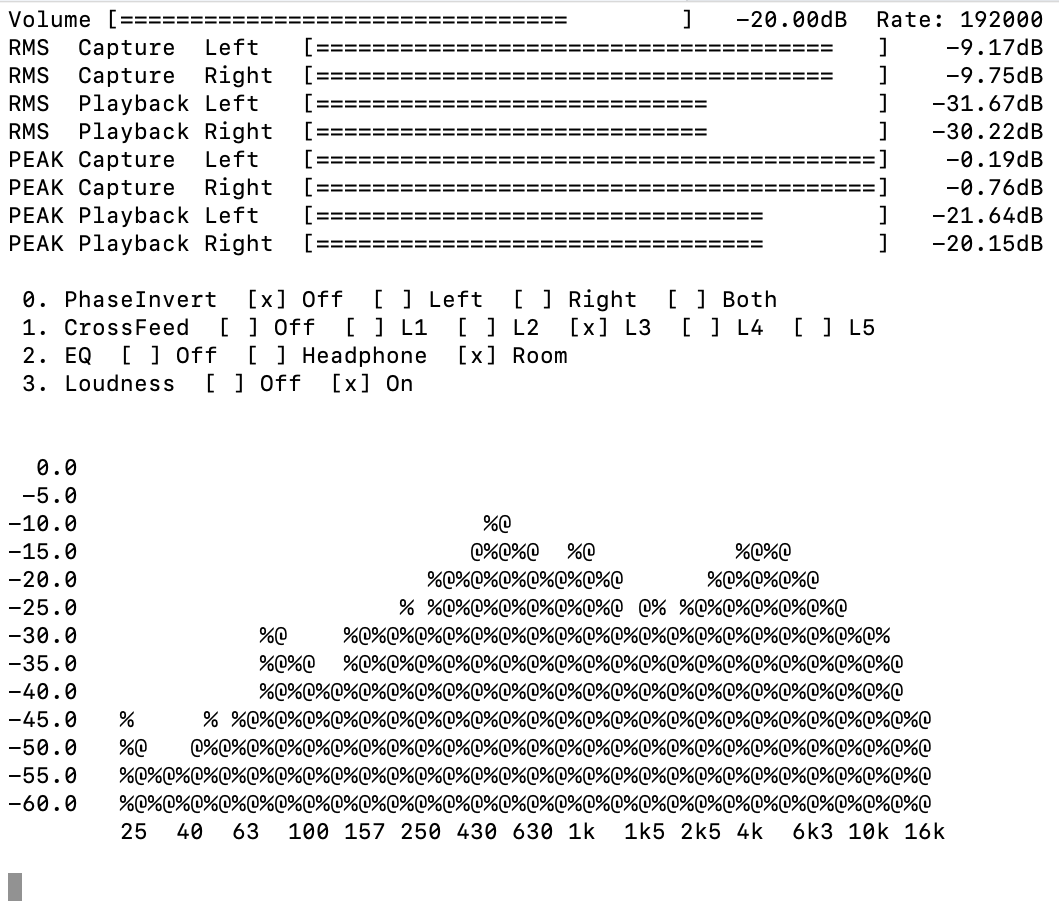
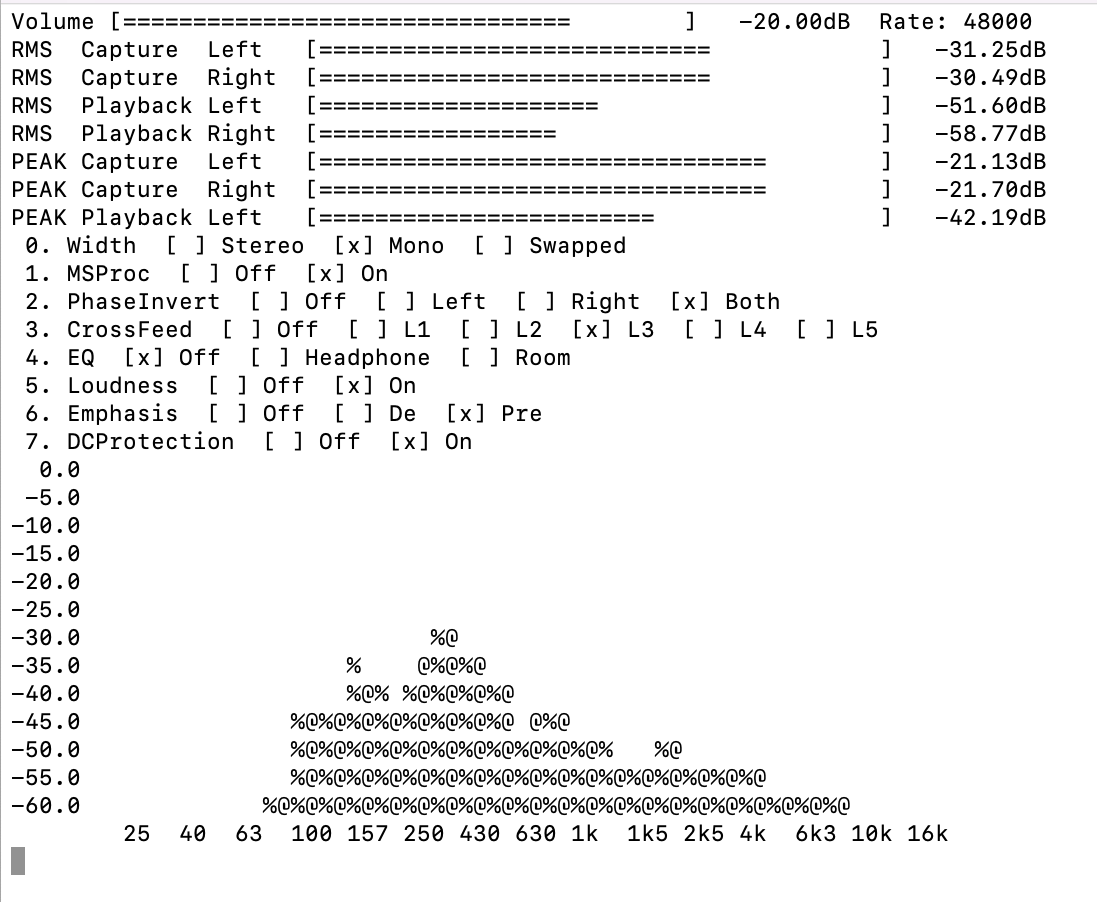
Implement Width and MSProc

Changed region(s): [[0.0, 0.0, 0.9972, 0.9313], [0.7479, 0.3415, 0.8414, 0.3725], [0.0, 0.9313, 0.0312, 0.9933]]

diff --git a/monitor.py b/monitor.py
@@ -123,24 +123,27 @@ def print_output(msg, vol, rate, values, spectrum):
         vol_bar = volume_string(values[i])
         stdscr.addstr(i+1, 0, f"{v} {s} {c} {vol_bar}\n")
         i += 1
-  for i, section_name in enumerate(section_names):
-    s = f"{i}. {section_name}"
-    for j, subsection_name in enumerate(subsection_names[i]):
-      checked = '  [x] ' if j == setting[i] else '  [ ] '
+  for idx, section_name in enumerate(section_names):
+    s = f"{idx}. {section_name}"
+    for j, subsection_name in enumerate(subsection_names[idx]):
+      checked = '  [x] ' if j == setting[idx] else '  [ ] '
       s += checked + subsection_name
-    stdscr.addstr(i+10, 0, f" {s}\n")
+    stdscr.addstr(i, 0, f" {s}\n")
+    i += 1
 
   for lineno in range(13):
     line = print_spectrum_line(spectrum, lineno)
-    stdscr.addstr(lineno+16, 0, line)
+    stdscr.addstr(i, 0, line)
+    i += 1
   freq = "        25  40  63  100 157 250 430 630 1k  1k5 2k5 4k  6k3 10k 16k"
-  stdscr.addstr(29, 0, freq)
+  stdscr.addstr(i, 0, freq)
+  i += 1
 
-  stdscr.move(31, 0)
+  stdscr.move(i, 0)
   if msg == '' and  select.select([proc.stdout],[],[],0.0)[0]:
     msg = proc.stdout.readline()
-  msg = msg.strip()[0:60]
-  stdscr.addstr(31, 0, msg)
+  msg = msg.strip()[0:80]
+  stdscr.addstr(i, 0, msg)
   stdscr.clrtoeol()
   stdscr.refresh()
 

diff --git a/README.md b/README.md
@@ -20,6 +20,14 @@ That's why I build this short script to address the above issues. The script is 
 
 The DSP workflow is heavily inspired by the [RME ADI-2 DAC](https://www.rme-audio.de/adi-2-dac.html). It offers the following functionalities, and more can be added in the same way.
 
+## Width
+
+Define stereo width. Mono for mono, and Swapped have the channels swapped.
+
+## M/S Proc
+
+Activates M/S processing. Monaural content is sent to the left, stereo to the right channel.
+
 ## Volume Control
 
 You can control the output volume by arrow keys. Left and right adjust volume by 10dB, while up and down adjust it by 1dB.
